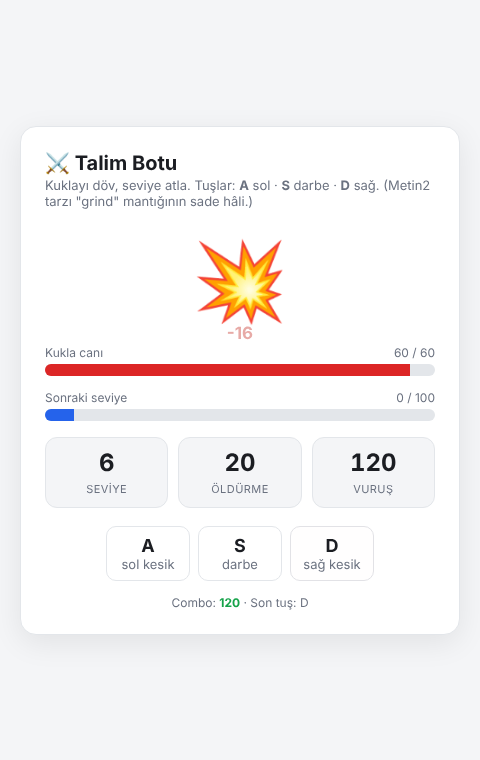
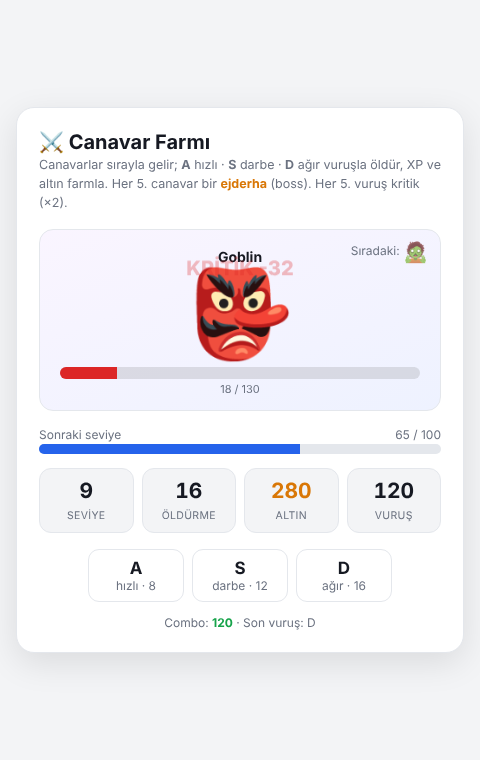
2. Ödev: deneme oyununu 'Canavar Farmı'na çevir (XP/altın farmı)
Statik kukla yerine sırayla gelen canavarları A/S/D ile dövüp XP ve altın
farmladığın oyun. Her 5. canavar ejderha (boss, 3x ödül), her 5. vuruş kritik
(x2). Canavar canı seviyeyle büyür (gerçek farm hissi). A/S/D kontrolleri aynı
kaldığından makro ve headless test değişmeden çalışır.

Test: 120 vuruş, 16 öldürme, seviye 9, 280 altın. Belgeler güncellendi.

Claude-Session: https://claude.ai/code/session_01KaGdVux922b8FP8cbbJDef

diff --git a/odev2-usb-klavye/oyun/index.html b/odev2-usb-klavye/oyun/index.html
@@ -3,144 +3,186 @@
 <head>
 <meta charset="utf-8">
 <meta name="viewport" content="width=device-width, initial-scale=1">
-<title>Talim Botu</title>
+<title>Canavar Farmı</title>
 <style>
   :root {
-    --arka: #f4f5f7; --kart: #ffffff; --metin: #1b1d22; --soluk: #6b7280;
-    --cizgi: #e3e6ea; --vurgu: #c7382f; --can: #dc2626; --xp: #2563eb; --yesil: #16a34a;
+    --arka:#f3f4f6; --kart:#ffffff; --metin:#161922; --soluk:#6b7280; --cizgi:#e4e7ec;
+    --vurgu:#7c3aed; --can:#dc2626; --xp:#2563eb; --altin:#d97706; --yesil:#16a34a; --krit:#f59e0b;
+    --arena1:#faf5ff; --arena2:#eef2ff;
   }
   @media (prefers-color-scheme: dark) {
     :root:not([data-tema="light"]) {
-      --arka: #14161a; --kart: #1e2127; --metin: #eceef2; --soluk: #9aa3af;
-      --cizgi: #2c313a; --vurgu: #f0564b; --can: #ef4444; --xp: #60a5fa; --yesil: #34d399;
+      --arka:#0f1116; --kart:#1b1e25; --metin:#eceef3; --soluk:#99a1ae; --cizgi:#2b303a;
+      --vurgu:#a78bfa; --can:#ef4444; --xp:#60a5fa; --altin:#fbbf24; --yesil:#34d399; --krit:#fbbf24;
+      --arena1:#1e1a2e; --arena2:#18203a;
     }
   }
   :root[data-tema="dark"] {
-    --arka: #14161a; --kart: #1e2127; --metin: #eceef2; --soluk: #9aa3af;
-    --cizgi: #2c313a; --vurgu: #f0564b; --can: #ef4444; --xp: #60a5fa; --yesil: #34d399;
+    --arka:#0f1116; --kart:#1b1e25; --metin:#eceef3; --soluk:#99a1ae; --cizgi:#2b303a;
+    --vurgu:#a78bfa; --can:#ef4444; --xp:#60a5fa; --altin:#fbbf24; --yesil:#34d399; --krit:#fbbf24;
+    --arena1:#1e1a2e; --arena2:#18203a;
   }
-  * { box-sizing: border-box; }
+  * { box-sizing:border-box; }
   body {
-    margin: 0; background: var(--arka); color: var(--metin);
-    font-family: system-ui, -apple-system, "Segoe UI", Roboto, sans-serif;
-    min-height: 100vh; display: flex; align-items: center; justify-content: center;
-    padding: 16px;
+    margin:0; background:var(--arka); color:var(--metin); padding:16px;
+    font-family:system-ui,-apple-system,"Segoe UI",Roboto,sans-serif;
+    min-height:100vh; display:flex; align-items:center; justify-content:center;
   }
-  .kart {
-    background: var(--kart); border: 1px solid var(--cizgi); border-radius: 16px;
-    padding: 24px; width: 100%; max-width: 440px; box-shadow: 0 8px 30px rgba(0,0,0,.08);
-  }
-  h1 { font-size: 20px; margin: 0 0 2px; }
-  .alt { color: var(--soluk); font-size: 13px; margin: 0 0 18px; }
-  .sahne {
-    text-align: center; font-size: 76px; line-height: 1; padding: 14px 0 6px;
-    user-select: none; transition: transform .05s;
-  }
-  .sahne.vur { transform: scale(1.12) rotate(-3deg); }
-  .hasar {
-    text-align: center; height: 22px; font-weight: 700; color: var(--vurgu);
-    font-size: 17px; opacity: 0; transition: opacity .1s;
-  }
-  .hasar.gor { opacity: 1; }
-  .bar { height: 12px; background: var(--cizgi); border-radius: 99px; overflow: hidden; margin: 4px 0 14px; }
-  .bar > span { display: block; height: 100%; width: 100%; transition: width .08s; }
-  .can > span { background: var(--can); }
-  .xp > span { background: var(--xp); }
-  .etiket { display: flex; justify-content: space-between; font-size: 12px; color: var(--soluk); margin-bottom: 2px; }
-  .izgara { display: grid; grid-template-columns: repeat(3, 1fr); gap: 10px; margin: 16px 0 18px; }
-  .kutu { background: var(--arka); border: 1px solid var(--cizgi); border-radius: 12px; padding: 10px; text-align: center; }
-  .kutu b { display: block; font-size: 24px; font-variant-numeric: tabular-nums; }
-  .kutu small { color: var(--soluk); font-size: 11px; text-transform: uppercase; letter-spacing: .04em; }
-  .tuslar { display: flex; gap: 8px; justify-content: center; }
-  .tus {
-    border: 1px solid var(--cizgi); border-radius: 10px; padding: 8px 0; width: 84px; text-align: center;
-    font-size: 13px; color: var(--soluk); transition: all .08s;
-  }
-  .tus b { display: block; font-size: 18px; color: var(--metin); }
-  .tus.bas { border-color: var(--vurgu); background: color-mix(in srgb, var(--vurgu) 14%, transparent); }
-  .durum { text-align: center; margin-top: 14px; font-size: 12px; color: var(--soluk); }
-  .combo { color: var(--yesil); font-weight: 700; }
+  .kart { background:var(--kart); border:1px solid var(--cizgi); border-radius:18px;
+    padding:22px; width:100%; max-width:460px; box-shadow:0 10px 34px rgba(0,0,0,.10); }
+  h1 { font-size:20px; margin:0 0 2px; }
+  .alt { color:var(--soluk); font-size:12.5px; margin:0 0 16px; line-height:1.5; }
+
+  .arena { position:relative; border:1px solid var(--cizgi); border-radius:14px; overflow:hidden;
+    background:linear-gradient(160deg,var(--arena1),var(--arena2)); padding:18px 14px 14px; text-align:center; }
+  .sira { position:absolute; top:10px; right:12px; font-size:12px; color:var(--soluk); }
+  .sira b { font-size:20px; vertical-align:middle; filter:grayscale(.3); opacity:.8; }
+  .ad { font-weight:700; font-size:14px; margin-bottom:6px; }
+  .ad .boss { color:var(--altin); }
+  .canavar { font-size:84px; line-height:1; display:inline-block; transition:transform .06s; }
+  .canavar.vur { transform:scale(1.14) rotate(-4deg); }
+  .canavar.bossCanavar { filter:drop-shadow(0 0 10px var(--altin)); }
+  .hasar { position:absolute; left:0; right:0; top:34px; height:24px; font-weight:800; font-size:20px;
+    color:var(--can); opacity:0; transition:opacity .08s, transform .2s; pointer-events:none; }
+  .hasar.gor { opacity:1; transform:translateY(-10px); }
+  .hasar.krit { color:var(--krit); font-size:26px; }
+  .cbar { height:12px; background:rgba(127,127,127,.22); border-radius:99px; overflow:hidden; margin:12px 6px 2px; }
+  .cbar > span { display:block; height:100%; background:var(--can); width:100%; transition:width .07s; }
+  .cyazi { font-size:11px; color:var(--soluk); margin-top:3px; }
+
+  .etiket { display:flex; justify-content:space-between; font-size:12px; color:var(--soluk); margin:16px 0 2px; }
+  .xpbar { height:10px; background:var(--cizgi); border-radius:99px; overflow:hidden; }
+  .xpbar > span { display:block; height:100%; background:var(--xp); width:0%; transition:width .1s; }
+
+  .izgara { display:grid; grid-template-columns:repeat(4,1fr); gap:8px; margin:14px 0 16px; }
+  .kutu { background:var(--arka); border:1px solid var(--cizgi); border-radius:12px; padding:9px 4px; text-align:center; }
+  .kutu b { display:block; font-size:21px; font-variant-numeric:tabular-nums; }
+  .kutu small { color:var(--soluk); font-size:10.5px; text-transform:uppercase; letter-spacing:.03em; }
+  .altinDeger { color:var(--altin); }
+
+  .tuslar { display:flex; gap:8px; justify-content:center; }
+  .tus { border:1px solid var(--cizgi); border-radius:11px; padding:8px 0; width:96px; text-align:center;
+    font-size:12px; color:var(--soluk); transition:all .08s; }
+  .tus b { display:block; font-size:17px; color:var(--metin); }
+  .tus.bas { border-color:var(--vurgu); background:color-mix(in srgb, var(--vurgu) 15%, transparent); transform:translateY(1px); }
+  .durum { text-align:center; margin-top:13px; font-size:12px; color:var(--soluk); }
+  .combo { color:var(--yesil); font-weight:700; }
 </style>
 </head>
 <body>
   <div class="kart">
-    <h1>⚔ Talim Botu</h1>
-    <p class="alt">Kuklayı döv, seviye atla. Tuşlar: <b>A</b> sol · <b>S</b> darbe · <b>D</b> sağ.
-      (Metin2 tarzı "grind" mantığının sade hâli.)</p>
+    <h1>⚔ Canavar Farmı</h1>
+    <p class="alt">Canavarlar sırayla gelir; <b>A</b> hızlı · <b>S</b> darbe · <b>D</b> ağır vuruşla öldür,
+      XP ve altın farmla. Her 5. canavar bir <b style="color:var(--altin)">ejderha</b> (boss). Her 5. vuruş kritik (×2).</p>
 
-    <div class="sahne" id="sahne">🎯</div>
-    <div class="hasar" id="hasar">0</div>
-
-    <div class="etiket"><span>Kukla canı</span><span id="canYazi">60 / 60</span></div>
-    <div class="bar can"><span id="canBar"></span></div>
+    <div class="arena">
+      <div class="sira">Sıradaki: <b id="sonraki">👺</b></div>
+      <div class="ad" id="canavarAd">Goblin</div>
+      <div class="canavar" id="canavar">👺</div>
+      <div class="hasar" id="hasar">0</div>
+      <div class="cbar"><span id="canBar"></span></div>
+      <div class="cyazi" id="canYazi">50 / 50</div>
+    </div>
 
     <div class="etiket"><span>Sonraki seviye</span><span id="xpYazi">0 / 100</span></div>
-    <div class="bar xp"><span id="xpBar" style="width:0%"></span></div>
+    <div class="xpbar"><span id="xpBar"></span></div>
 
     <div class="izgara">
       <div class="kutu"><b id="seviye">1</b><small>Seviye</small></div>
       <div class="kutu"><b id="oldurme">0</b><small>Öldürme</small></div>
+      <div class="kutu"><b class="altinDeger" id="altin">0</b><small>Altın</small></div>
       <div class="kutu"><b id="vurus">0</b><small>Vuruş</small></div>
     </div>
 
     <div class="tuslar">
-      <div class="tus" id="tusA"><b>A</b>sol kesik</div>
-      <div class="tus" id="tusS"><b>S</b>darbe</div>
-      <div class="tus" id="tusD"><b>D</b>sağ kesik</div>
+      <div class="tus" id="tusA"><b>A</b>hızlı · 8</div>
+      <div class="tus" id="tusS"><b>S</b>darbe · 12</div>
+      <div class="tus" id="tusD"><b>D</b>ağır · 16</div>
     </div>
 
-    <div class="durum">Combo: <span class="combo" id="combo">0</span> · Son tuş: <span id="sonTus">—</span></div>
+    <div class="durum">Combo: <span class="combo" id="combo">0</span> · Son vuruş: <span id="sonTus">—</span></div>
   </div>
 
 <script>
 (() => {
   "use strict";
-  const KUKLA_CAN = 60, XP_BOLUM = 100, XP_ODUL = 25;
   const HASAR = { a: 8, s: 12, d: 16 };
+  const XP_BOLUM = 100, CRIT_HER = 5, BOSS_HER = 5;
+  const TIPLER = [
+    { emoji: "👺", ad: "Goblin" },
+    { emoji: "🧟", ad: "Zombi" },
+    { emoji: "🐺", ad: "Kurt" },
+    { emoji: "👹", ad: "İblis" },
+  ];
+  const BOSS = { emoji: "🐲", ad: "Ejderha" };
 
-  // Oyun durumu. Test bu nesneyi window.durum üzerinden okur.
-  const durum = { vurus: 0, combo: 0, oldurme: 0, seviye: 1, xp: 0, dummyCan: KUKLA_CAN };
+  // Oyun durumu. Test bunu window.durum üzerinden okur.
+  const durum = {
+    vurus: 0, combo: 0, oldurme: 0, seviye: 1, xp: 0, altin: 0,
+    canavarCan: 0, canavarMaxCan: 0, canavarAd: "", bossMu: false,
+  };
   window.durum = durum;
 
   const $ = (id) => document.getElementById(id);
-  const sahne = $("sahne"), hasarEl = $("hasar");
+  const canavarEl = $("canavar"), hasarEl = $("hasar");
+
+  function tipSec(sira) { return (sira % BOSS_HER === BOSS_HER - 1) ? BOSS : TIPLER[sira % TIPLER.length]; }
+
+  function canavarUret() {
+    const sira = durum.oldurme;                 // kaçıncı canavar
+    durum.bossMu = (sira % BOSS_HER === BOSS_HER - 1);
+    const tip = tipSec(sira);
+    const temelCan = 40 + durum.seviye * 10;     // seviye arttıkça canavar güçlenir (gerçek farm)
+    durum.canavarMaxCan = durum.bossMu ? temelCan * 2 : temelCan;
+    durum.canavarCan = durum.canavarMaxCan;
+    durum.canavarAd = tip.ad;
+
+    canavarEl.textContent = tip.emoji;
+    canavarEl.classList.toggle("bossCanavar", durum.bossMu);
+    $("canavarAd").innerHTML = durum.bossMu ? '<span class="boss">👑 ' + tip.ad + '</span>' : tip.ad;
+    const sonraki = tipSec(sira + 1);
+    $("sonraki").textContent = sonraki.emoji;
+  }
 
   function ciz() {
     $("vurus").textContent = durum.vurus;
     $("oldurme").textContent = durum.oldurme;
     $("seviye").textContent = durum.seviye;
+    $("altin").textContent = durum.altin;
     $("combo").textContent = durum.combo;
-    $("canYazi").textContent = durum.dummyCan + " / " + KUKLA_CAN;
-    $("canBar").style.width = (100 * durum.dummyCan / KUKLA_CAN) + "%";
+    $("canYazi").textContent = Math.max(0, durum.canavarCan) + " / " + durum.canavarMaxCan;
+    $("canBar").style.width = (100 * Math.max(0, durum.canavarCan) / durum.canavarMaxCan) + "%";
     $("xpYazi").textContent = durum.xp + " / " + XP_BOLUM;
     $("xpBar").style.width = (100 * durum.xp / XP_BOLUM) + "%";
   }
 
   function vur(tus) {
-    const hasar = HASAR[tus];
     durum.vurus++;
     durum.combo++;
-    durum.dummyCan -= hasar;
+    let hasar = HASAR[tus];
+    const krit = (durum.vurus % CRIT_HER === 0);
+    if (krit) hasar *= 2;
+    durum.canavarCan -= hasar;
 
-    if (durum.dummyCan <= 0) {
+    if (durum.canavarCan <= 0) {
+      const kat = durum.bossMu ? 3 : 1;
       durum.oldurme++;
-      durum.xp += XP_ODUL;
+      durum.xp += kat * (20 + durum.seviye * 5);
+      durum.altin += kat * (5 + durum.seviye * 2);
       while (durum.xp >= XP_BOLUM) { durum.xp -= XP_BOLUM; durum.seviye++; }
-      durum.dummyCan = KUKLA_CAN;
-      sahne.textContent = "💥";
-      setTimeout(() => { sahne.textContent = "🎯"; }, 90);
+      canavarUret();                              // sıradaki canavar gelir
     }
 
     // Görsel geri bildirim
-    hasarEl.textContent = "-" + hasar;
-    hasarEl.classList.add("gor");
-    sahne.classList.add("vur");
+    hasarEl.textContent = (krit ? "KRİTİK -" : "-") + hasar;
+    hasarEl.className = "hasar gor" + (krit ? " krit" : "");
+    canavarEl.classList.add("vur");
     const tusEl = $("tus" + tus.toUpperCase());
     tusEl.classList.add("bas");
     $("sonTus").textContent = tus.toUpperCase();
     setTimeout(() => {
-      hasarEl.classList.remove("gor");
-      sahne.classList.remove("vur");
+      hasarEl.className = "hasar";
+      canavarEl.classList.remove("vur");
       tusEl.classList.remove("bas");
     }, 90);
 
@@ -149,14 +191,11 @@
 
   window.addEventListener("keydown", (e) => {
     const tus = e.key.toLowerCase();
-    if (tus === "a" || tus === "s" || tus === "d") {
-      vur(tus);
-    } else {
-      durum.combo = 0;  // yanlış tuş combo'yu kırar
-      ciz();
-    }
+    if (tus === "a" || tus === "s" || tus === "d") vur(tus);
+    else { durum.combo = 0; ciz(); }             // yanlış tuş combo'yu kırar
   });
 
+  canavarUret();
   ciz();
 })();
 </script>

diff --git a/odev2-usb-klavye/oyun/BENIOKU.md b/odev2-usb-klavye/oyun/BENIOKU.md
@@ -1,9 +1,10 @@
-# Talim Botu — makro klavyeyi deneme oyunu
+# Canavar Farmı — makro klavyeyi deneme oyunu
 
 20 yıl önce Metin2 / Knight Online gibi oyunlarda seviye atlamak için tuşa basan
 makrolar kullanılırdı. Bu klasör, aynı fikri **basit ve kontrollü** bir oyunda
-denemek içindir: kuklayı döv, seviye atla. Tuşlar **A** (sol kesik), **S**
-(darbe), **D** (sağ kesik) — yani cihazın varsayılan `a,s,d` makrosuyla birebir.
+denemek içindir: canavarlar sırayla gelir, vurup öldürdükçe XP ve altın farmlarsın.
+Tuşlar **A** (hızlı), **S** (darbe), **D** (ağır vuruş) — yani cihazın varsayılan
+`a,s,d` makrosuyla birebir. Her 5. canavar bir ejderha (boss), her 5. vuruş kritik.
 
 ## Dosyalar
 
@@ -16,8 +17,8 @@ denemek içindir: kuklayı döv, seviye atla. Tuşlar **A** (sol kesik), **S**
 
 ## Elle oyna
 
-Tarayıcıda `index.html`'i aç, A/S/D'ye bas. Her tuş kuklaya vurur; can biterse
-kukla yeniden gelir, XP ve seviye artar.
+Tarayıcıda `index.html`'i aç, A/S/D'ye bas. Her tuş gelen canavara vurur; canı
+biterse ölür, sıradaki canavar gelir, XP ve altın farmlanır, seviye atlanır.
 
 ## Otomatik test (donanım gerekmez)
 
@@ -29,9 +30,9 @@ gerekir.
 node oyun/test_oyun.mjs       # ya da:  make oyun-test
 ```
 
-Beklenen sonuç: 40 tur × 3 tuş = **120 vuruş**, kuklalar ölür, **seviye atlanır**
-ve `ekran_goruntusu.png` güncellenir. Bu, "otomatik klavyeye basan cihaz oyunu
-oynatır mı?" sorusunun donanımsız kanıtıdır.
+Beklenen sonuç: 40 tur × 3 tuş = **120 vuruş**, canavarlar ölür, XP/altın farmlanır,
+**seviye atlanır** ve `ekran_goruntusu.png` güncellenir. Bu, "otomatik klavyeye basan
+cihaz oyunu oynatır mı?" sorusunun donanımsız kanıtıdır.
 
 ## Gerçek cihazla
 

diff --git a/odev2-usb-klavye/README.md b/odev2-usb-klavye/README.md
@@ -86,7 +86,8 @@ metinden ayrıştırma bilgisayar/benzetim tarafında kullanılır (esnek yol).
 
 20 yıl önce Metin2 / Knight Online gibi oyunlarda seviye atlamak için tuşa basan
 makrolar kullanılırdı. Aynı fikri basit, kontrollü bir oyunda deniyoruz:
-`oyun/` klasöründe A/S/D ile oynanan bir "kuklayı döv, seviye atla" oyunu var.
+`oyun/` klasöründe A/S/D ile canavar dövüp XP/altın farmladığın bir
+"Canavar Farmı" oyunu var (sırayla gelen canavarlar, ejderha bosslar, kritik vuruş).
 
 `make oyun-test`, cihazın göndereceği a-s-d tuşlarının **aynısını** ekransız
 (headless) tarayıcıya bastırır ve skorun yükseldiğini doğrular — yani otomatik
